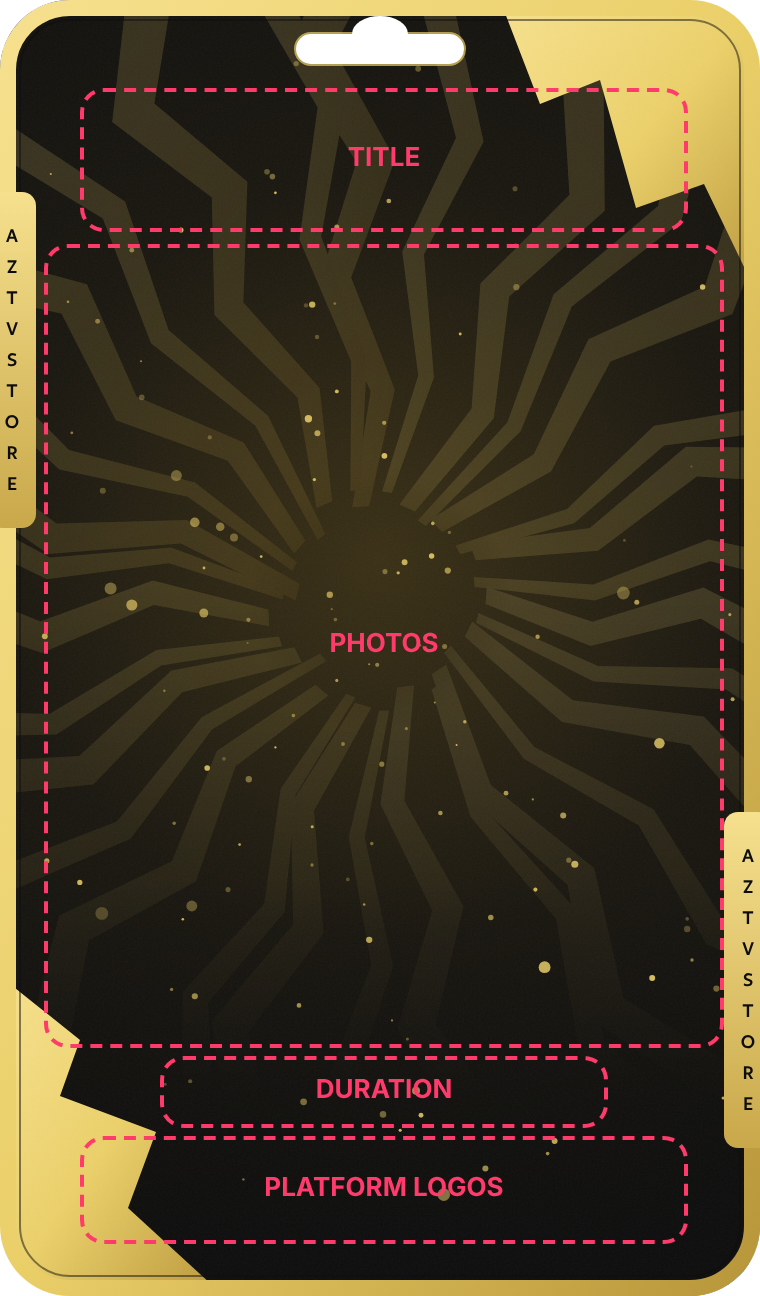
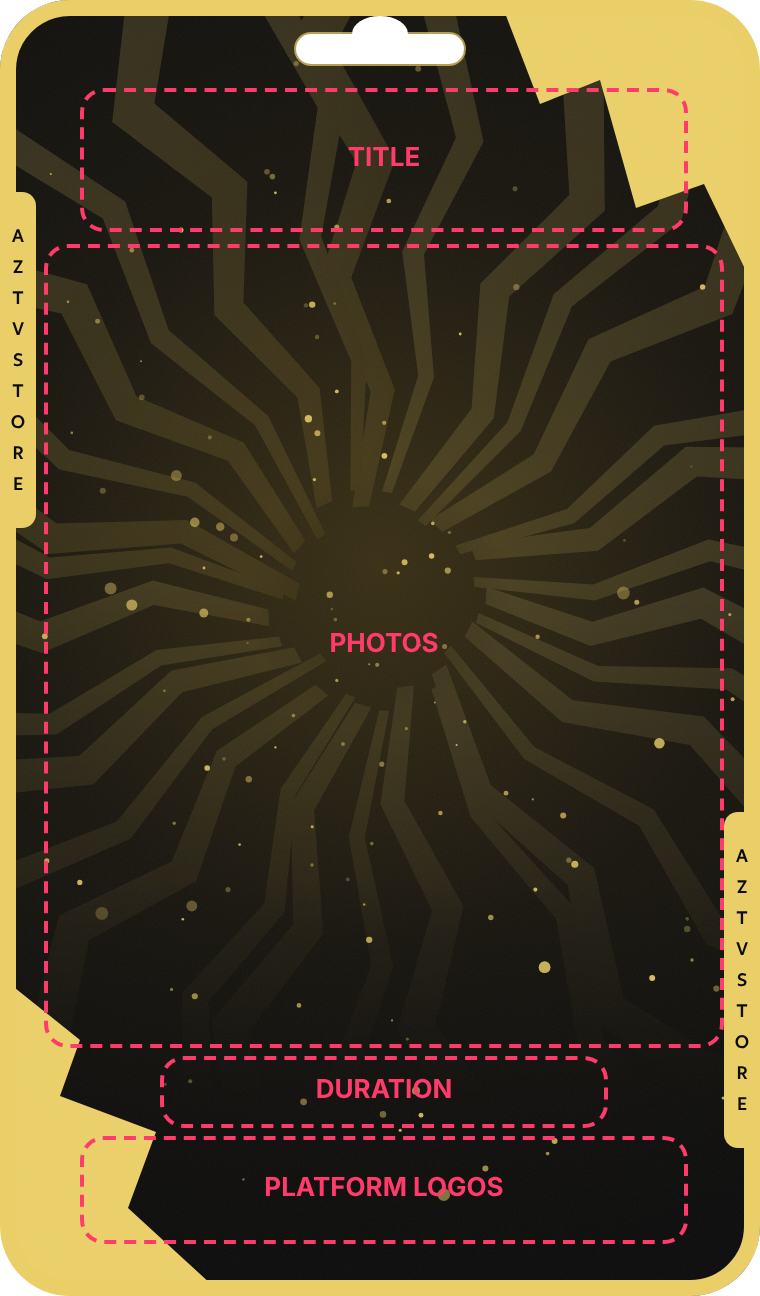
Cards: flat Plus frame, centred side tabs, new Plus 1 year, polished two-device card
- Card backgrounds: AZTVSTORE letters centred on the visible part of each
  side tab; the Plus frame, shards and tabs are flat gold with no inner line.
- Plus 1 year: photo 008 and the latest-roles star 07 instead of 001 and
  012 (client found it unbalanced). New fadeRight and fadeBottom photo
  options hide the close-up's cut edge and the chair.
- Plus 1 year, two devices: two-screens icon in the badge, white kit
  toned down, the man behind lit and enlarged to match.
- Plus 3 months: rejected, waiting for new photos (unchanged).

Claude-Session: https://claude.ai/code/session_01FygVLnFo91EcE1sreJGJg8

diff --git a/05-design/shared/subscription-cards/card.html b/05-design/shared/subscription-cards/card.html
@@ -53,11 +53,13 @@
   .logos img.own-white { filter: none; }
 
   /* optional badge above the duration (e.g. two devices) */
-  .badge { position: absolute; left: 0; right: 0; top: 484px; z-index: 10; display: flex; justify-content: center; }
+  .badge { position: absolute; left: 0; right: 0; top: 482px; z-index: 10; display: flex; justify-content: center; }
   .badge span { padding: 0 18px; height: 30px; display: flex; align-items: center; gap: 5px; border-radius: 99px; background: var(--white); color: var(--ink);
     font-weight: 700; font-size: 14px; border: 2px solid var(--ink); box-shadow: 0 6px 16px rgba(0,0,0,.2); }
   .badge:empty { display: none; }
   .badge bdi { letter-spacing: .04em; }
+  .badge .ico { width: 24px; height: 16px; margin-inline-end: 3px; fill: var(--ink); stroke: var(--gold); stroke-width: 1.6; }
+  .badge .ico rect:last-child { fill: var(--ink); }
 
   /* renewal: arrows in a disc at the burst centre */
   .renew { position: absolute; left: 70px; top: 190px; width: 240px; height: 240px; z-index: 5; display: none; }
@@ -147,16 +149,16 @@ const CARDS = {
   "plus-12m": {
     plus: true, bg: PLUS, title: "اشتراك بلس سنة", dEn: "1 YEAR", dAr: "سنة",
     photos: [
-      { src: PH + "012-red-blue-spider-suit.png", left: 142, top: 156, width: 358 },
-      { src: PH + "001-argentina-kit-10.png", left: -76, top: 134, width: 360 }
+      { src: PH + "008-man-long-hair-dark-coat-chair.png", left: -68, top: 121, width: 480, gamma: .85, fadeBottom: [40, 60] },
+      { src: ST + "07-alvaro-morte-dos-tumbas.png", left: -4, top: 140, width: 260, fadeTop: true, fadeRight: true }
     ]
   },
   // 6. AZ TV Plus, 1 year, two devices
   "plus-12m-2dev": {
     plus: true, bg: PLUS, title: "اشتراك بلس سنة", dEn: "1 YEAR", dAr: "سنة", badge: ["جهازين", "2 DEVICES"],
     photos: [
-      { src: PH + "002-man-black-coat.png", left: 106, top: 171, width: 246, lift: 1.1 },
-      { src: PH + "006-yellow-navy-kit-captain.png", left: -110, top: 167, width: 505 }
+      { src: PH + "002-man-black-coat.png", left: 100, top: 150, width: 268, lift: 1.06, gamma: .78 },
+      { src: PH + "006-yellow-navy-kit-captain.png", left: -110, top: 167, width: 505, lift: .9 }
     ]
   },
   // 7. AZ TV Plus, 6 months
@@ -189,7 +191,8 @@ const card = document.getElementById("card");
 card.classList.toggle("plus", !!c.plus);
 card.classList.toggle("is-renew", !!c.renew);
 if (c.titleSize) document.getElementById("title").style.fontSize = c.titleSize + "px";
-if (c.badge) document.getElementById("badge").innerHTML = `<span>${c.badge[0]} · <bdi dir="ltr">${c.badge[1]}</bdi></span>`;
+const SCREENS = `<svg class="ico" viewBox="0 0 30 20" aria-hidden="true"><rect x="1.2" y="1.2" width="17" height="11.5" rx="2"/><rect x="11.8" y="6.3" width="17" height="11.5" rx="2"/></svg>`;
+if (c.badge) document.getElementById("badge").innerHTML = `<span>${SCREENS}${c.badge[0]} · <bdi dir="ltr">${c.badge[1]}</bdi></span>`;
 // renewal arrows: three arcs going clockwise, each ending in an arrow head
 if (c.renew) {
   const R = 66, rad = d => (d - 90) * Math.PI / 180, pt = d => [R * Math.cos(rad(d)), R * Math.sin(rad(d))];
@@ -229,8 +232,15 @@ const photos = document.getElementById("photos");
 c.photos.forEach(p => {
   const im = new Image(); im.src = p.src;
   im.style.cssText = `left:${p.left}px;top:${p.top}px;width:${p.width}px`;
-  // fadeTop: the photo is cut flat at its top edge (hair touching the frame), so fade that edge too
-  if (p.fadeTop) im.style.webkitMaskImage = im.style.maskImage = "linear-gradient(to bottom, transparent 0, #000 9%, #000 72%, transparent 97%)";
+  // fadeTop / fadeRight: the photo is cut flat at that edge (hair touching the frame, shoulders running out of a close-up),
+  // so fade that edge too. fadeBottom: [from %, to %] fades out higher than usual (hides a chair or hands).
+  if (p.fadeTop || p.fadeRight || p.fadeBottom) {
+    const [b0, b1] = p.fadeBottom || [72, 97];
+    const masks = [`linear-gradient(to bottom, ${p.fadeTop ? "transparent 0, #000 9%, " : ""}#000 ${b0}%, transparent ${b1}%)`];
+    if (p.fadeRight) masks.push("linear-gradient(to left, transparent 0, #000 24%)");
+    im.style.webkitMaskImage = im.style.maskImage = masks.join(", ");
+    im.style.webkitMaskComposite = "source-in"; im.style.maskComposite = "intersect";
+  }
   if (p.lift || p.gamma) {
     const tone = c.plus ? `grayscale(1) sepia(.55) saturate(1.25) contrast(1.12) brightness(${p.lift || .96})` : `grayscale(1) contrast(1.15) brightness(${p.lift || 1.02})`;
     im.style.filter = (p.gamma ? `url(#${gammaFilter(p.gamma)}) ` : "") + tone;

diff --git a/05-design/shared/subscription-cards/card-background.html b/05-design/shared/subscription-cards/card-background.html
@@ -7,7 +7,7 @@
 <!--
   The card's own background: what every subscription card shares before the title, photos and duration go on.
   AZ TV (regular): white card, bold black zigzag burst, the old cards' black and white look redrawn clean.
-  AZ TV Plus: black card, gold frame, gold corner shards, gold dust, side tabs, the old Plus look redrawn clean.
+  AZ TV Plus: black card, flat gold frame (no gradient, no inner line), flat gold corner shards, gold dust, side tabs, the old Plus look redrawn clean.
   Both use the same jagged ray as the approved product background (../subscription-backgrounds/), so card and stage match.
 
   Size: 380 x 648 here, exported at 2x = 760 x 1296 (the card area of the approved backgrounds), corner radius 35,
@@ -89,9 +89,11 @@ function sideTabs(tabFill, textFill) {
   const letters = (x, y0) => [..."AZTVSTORE"].map((c, i) =>
     `<text x="${x}" y="${y0 + i * 15.5}" text-anchor="middle">${c}</text>`).join("");
   const top = (TAB.h - 8 * 15.5) / 2 + 3;
+  // each tab runs 6px past the card edge, so centre the letters on the part that shows
+  const mid = x0 => (Math.max(0, x0) + Math.min(W, x0 + TAB.w)) / 2;
   return `<g fill="${tabFill}">${rr(TAB.l[0], TAB.l[1], TAB.w, TAB.h, 7)}${rr(TAB.r[0], TAB.r[1], TAB.w, TAB.h, 7)}</g>
     <g fill="${textFill}" font-family="PingARLT, system-ui, sans-serif" font-weight="700" font-size="9">
-      ${letters(TAB.l[0] + 3 + (TAB.w - 6) / 2, TAB.l[1] + top)}${letters(TAB.r[0] + 3 + (TAB.w - 6) / 2, TAB.r[1] + top)}
+      ${letters(mid(TAB.l[0]), TAB.l[1] + top)}${letters(mid(TAB.r[0]), TAB.r[1] + top)}
     </g>`;
 }
 
@@ -174,15 +176,14 @@ if (!plus) {
       <rect width="${W}" height="${H}" fill="url(#stage)"/>
       <g mask="url(#rayMaskDown)"><g mask="url(#rayMask)" fill="url(#gold)" opacity=".16">${burst}</g></g>
       <rect y="440" width="${W}" height="${H - 440}" fill="url(#floorP)"/>
-      <g fill="url(#gold)">
+      <g fill="#EACF69">
         <polygon points="250,0 ${W},0 ${W},150 352,92 318,104 300,40 270,52"/>
         <polygon points="0,488 40,520 30,548 78,566 64,604 112,${H} 0,${H}"/>
       </g>
       <g fill="#EACF69">${dust}</g>
       <rect width="${W}" height="${H}" filter="url(#grain)" opacity=".06"/>
-      <rect x="4" y="4" width="${W - 8}" height="${H - 8}" rx="${R - 4}" fill="none" stroke="url(#gold)" stroke-width="8"/>
-      <rect x="10" y="10" width="${W - 20}" height="${H - 20}" rx="${R - 10}" fill="none" stroke="#0D0D0D" stroke-opacity=".5" stroke-width="1"/>
-      ${sideTabs("url(#goldV)", "#0D0D0D")}
+      <rect x="4" y="4" width="${W - 8}" height="${H - 8}" rx="${R - 4}" fill="none" stroke="#EACF69" stroke-width="8"/>
+      ${sideTabs("#EACF69", "#0D0D0D")}
       <rect x="148" y="17" width="84" height="15" rx="7.5" fill="none" stroke="#EACF69" stroke-opacity=".7" stroke-width="2"/>
     </g>`;
 }

diff --git a/05-design/shared/subscription-cards/README.md b/05-design/shared/subscription-cards/README.md
@@ -9,7 +9,7 @@ The card in the middle of every subscription product image. The background aroun
 What every card shares before its title, photos and duration go on. One per style, 760 x 1296, transparent rounded corners (radius 70) and a transparent hanger slot at the top, so they drop straight into the card area of the approved backgrounds.
 
 - **AZ TV** `bg/card-bg-aztv.png`: white card, bold black zigzag burst (the old cards' black and white pattern, redrawn clean with the same jagged ray as the product background), fading to a light floor for the duration and platform logos. Black side tabs with AZTVSTORE.
-- **AZ TV Plus** `bg/card-bg-aztv-plus.png`: black card with a warm gold glow, gold frame, two clean gold corner shards (top right, bottom left), faint gold burst and gold dust. Gold side tabs with AZTVSTORE.
+- **AZ TV Plus** `bg/card-bg-aztv-plus.png`: black card with a warm gold glow, flat gold frame (no gradient, no inner line), two flat gold corner shards (top right, bottom left), faint gold burst and gold dust. Gold side tabs with AZTVSTORE.
 - `bg/*-guide.png`: where the per-card content goes (title, photos, duration, platform logos). `bg/*.webp`: light copies for the workspace.
 - `bg/mockups/`: each card background, blank, on approved backgrounds B (`bg-*`) and E (`option-e-*`). `preview.webp`: all four.
 - Source `card-background.html` (`?tier=regular|plus`, `&guide=1`), export `node render-card-bg.cjs` (needs Playwright).
@@ -54,7 +54,8 @@ Built from `card.html` in the accepted look of card 3, with the card photos 001-
 - **Renewal cards** (`renew: true`): no faces; three renewal arrows in a black disc at the burst centre (white on AZ TV, gold on Plus).
 - **Package line** under the title (all cards, 2026-10-24): a black pill (no side lines) with the package name in a chip, «AZ TV» (white chip) or «AZ TV PLUS» (gold chip), then «SUBSCRIPTION», or «RENEWAL» on the renewal cards. Replaces the small spaced-out «AZ TV SUBSCRIPTION» line, which was hard to read.
 - **Light on dark photos:** a photo can take `gamma` (below 1 opens the shadows of a dark face without blowing out the highlights; it also trims 1 px off the cut-out edge so no light fringe shows) next to `lift` (overall brightness). Used on cards 7 and 8, where the client found the faces too dark.
-- **Two devices** (card 6): a «جهازين · 2 DEVICES» badge above the duration (`badge`).
+- **Two devices** (card 6): a «جهازين · 2 DEVICES» badge with a two-screens icon above the duration (`badge`); the white kit toned down and the man behind lit and enlarged so the two faces match.
+- **Card backgrounds** (2026-10-24): the AZTVSTORE letters are centred on the visible part of each side tab (the tabs run 6 px past the card edge); the Plus frame, corner shards and tabs are flat gold, with no inner line.
 
 | Card | Player (front) | Star (behind) |
 |---|---|---|
@@ -62,12 +63,12 @@ Built from `card.html` in the accepted look of card 3, with the card photos 001-
 | 2 `aztv-6m` | 010 | 013 |
 | 3 `aztv-3m` | 005 | 009 |
 | 4 `aztv-1m` | 014 | 015 |
-| 5 `plus-12m` | 001 | 012 |
+| 5 `plus-12m` | Álvaro Morte (`07`) | 008 |
 | 6 `plus-12m-2dev` | 006 | 002 |
 | 7 `plus-6m` | 004 | Cillian Murphy (`03`) |
-| 8 `plus-3m` | 011 | Lee Jung-jae (`04`) |
+| 8 `plus-3m` | 011 | Lee Jung-jae (`04`) (to be replaced: client rejected this pair, waiting for two new photos) |
 
-Numbers are the photos in `photos/` (cut-outs in `photos/transparent/`); stars are in `stars/latest-roles/vertical/transparent/`. Pairs follow `card-stars.json` where we have the photo; where we don't have that photo yet (Mbappé, Vinícius and Neymar among the players; Kit Harington, Bryan Cranston and others appear in the new photos instead), the closest photo we have stands in. Card 4 has two actors (014 in front, 015 behind) instead of a player and a star: the client found 007 and `07` weak and sent these two. 015 and `03` are the same actor (cards 4 and 7). Photos 012 and 05 are the same actor (cards 5 and 1), so card 1 needs another star. 012 and 013 replaced 008 (card 5) and the dark star `06` (card 2) at the client's request. Photo 011 was cut out with `--holes 5000` to clear the white gaps between the arms and the body.
+Numbers are the photos in `photos/` (cut-outs in `photos/transparent/`); stars are in `stars/latest-roles/vertical/transparent/`. Pairs follow `card-stars.json` where we have the photo; where we don't have that photo yet (Mbappé, Vinícius and Neymar among the players; Kit Harington, Bryan Cranston and others appear in the new photos instead), the closest photo we have stands in. Card 4 has two actors (014 in front, 015 behind) instead of a player and a star: the client found 007 and `07` weak and sent these two. 015 and `03` are the same actor (cards 4 and 7). Card 5 has two actors (client rejected its earlier photos 001 and 012); Morte's close-up fades out at the right edge and 008 fades out below the chest so his chair does not show. 012 and 013 replaced 008 (card 5) and the dark star `06` (card 2) at the client's request. Photo 011 was cut out with `--holes 5000` to clear the white gaps between the arms and the body.
 
 ## How we work
 

diff --git a/PROJECT.md b/PROJECT.md
@@ -197,6 +197,7 @@ new store design/
 
 ## 10. Log
 
+- 2026-10-24: Card round with the client: Plus frame and shards flat gold without the inner line; AZTVSTORE letters centred in the side tabs (both styles); Plus 1 year rebuilt with photo 008 and Morte (two actors); two-device card polished (two-screens icon in the badge, faces matched in size and light). Plus 3 months rejected: waiting for two new photos (a player and a star).
 - 2026-10-24: Plus 3 months and Plus 6 months cards: faces relit (client: the light was poor). Shadows opened with a gamma lift on both photos of Plus 3 months and on the player of Plus 6 months.
 - 2026-10-24: AZ TV 1 month card: client found its photos weak; now photos 014 (front) and 015 (behind), two actors, instead of 007 and the latest-roles star `07`.
 - 2026-10-24: Cards, client edits: AZ TV 6 months now has photo 013 behind the player (was the dark star photo), AZ TV Plus 1 year has photo 012 behind the player (was 008). The «AZ TV SUBSCRIPTION» line under the title on every card is now a clear pill: the package name in a chip («AZ TV» white, «AZ TV PLUS» gold) and «SUBSCRIPTION» or «RENEWAL» beside it.
